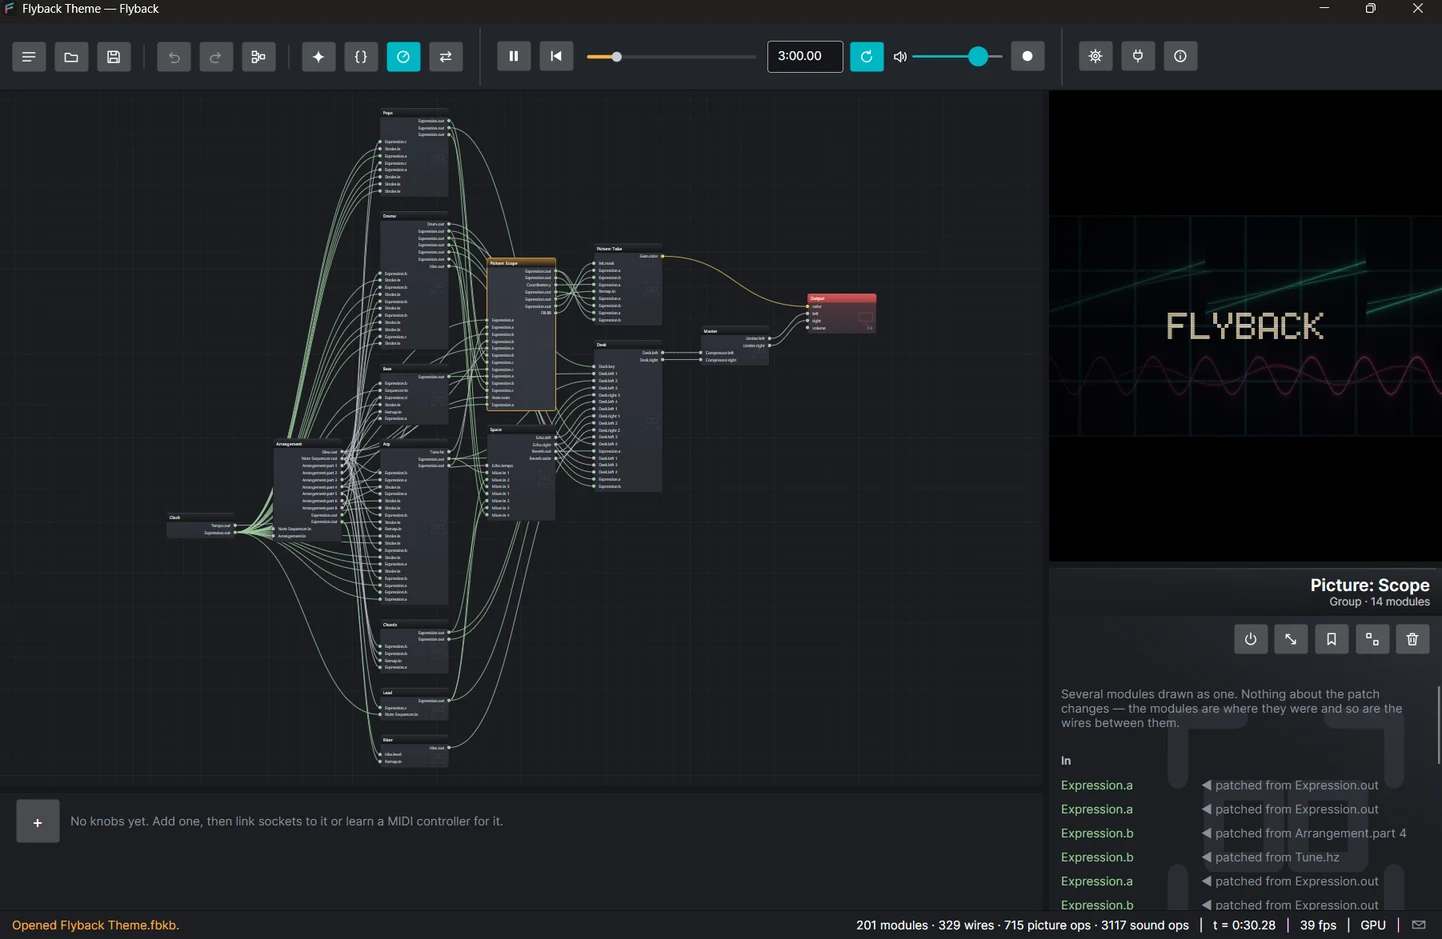
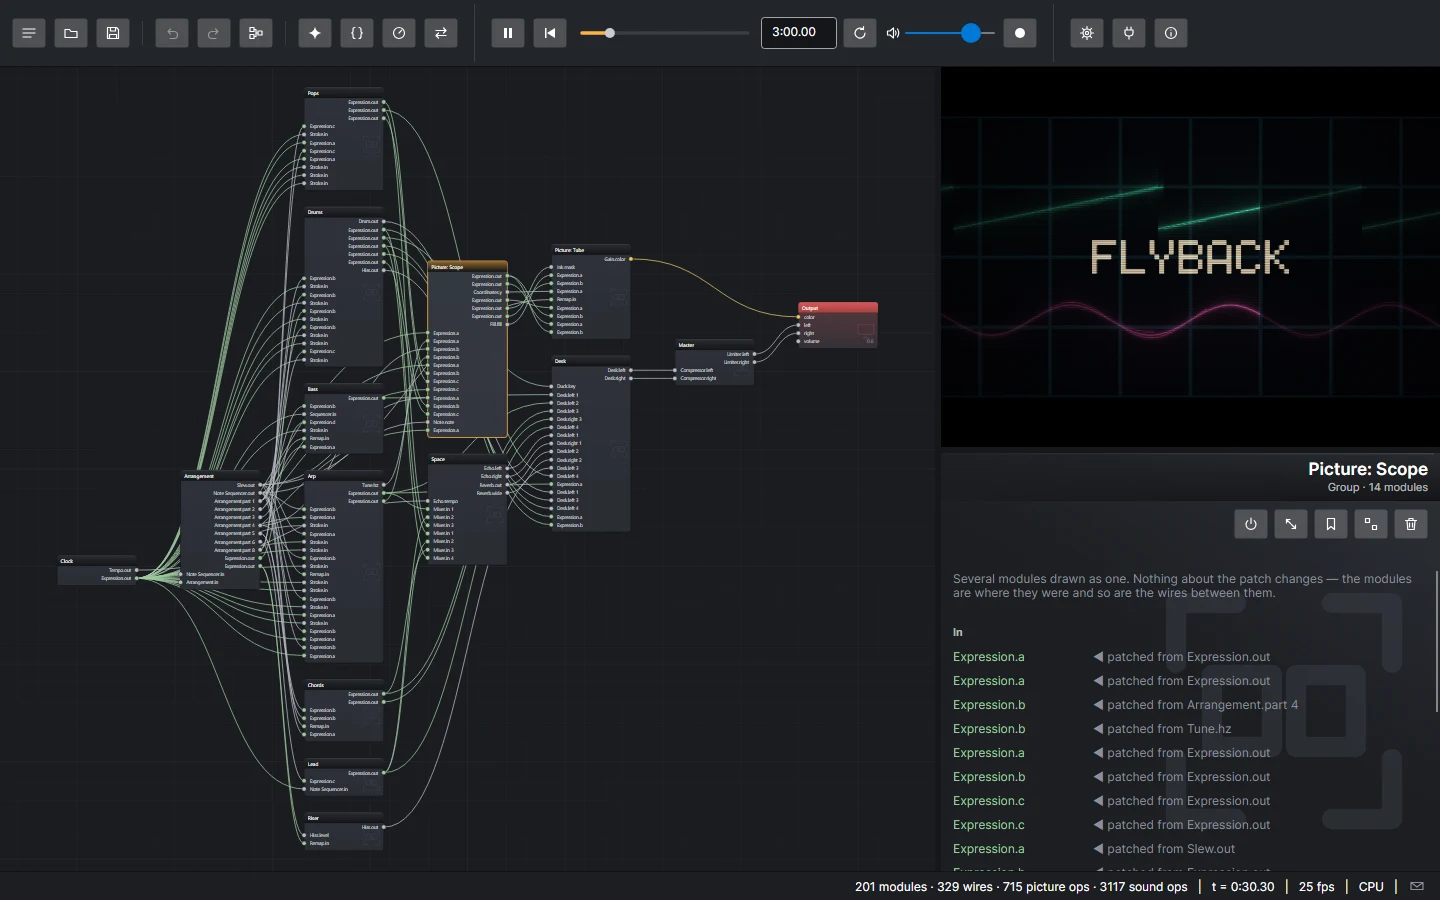
The site's Flyback Theme, Plasma and tutorial canvas shots show Time with length and progress
All three come from flyback-cli shot now rather than the driven window, so they
have no title bar and the two full windows are 1440x900; the tutorial canvas is
its text packed into a bundle, shot and cropped to the modules.

diff --git a/site/tutorials.html b/site/tutorials.html
@@ -128,7 +128,7 @@
     <figure>
       <div class="window">
         <a class="zoom" href="assets/shots/plasma.webp">
-          <img loading="lazy" src="assets/shots/plasma.webp" width="1442" height="939"
+          <img loading="lazy" src="assets/shots/plasma.webp" width="1440" height="900"
                alt="The Flyback window with the Plasma preset: the toolbar at the top, fourteen modules on the canvas, blue, cream and amber blobs in the preview, the patch's description and hints in the inspector, and the status bar at the bottom.">
         </a>
       </div>
@@ -320,7 +320,7 @@
 
     <figure class="wide-shot">
       <a class="zoom" href="assets/shots/tutorial-canvas.webp">
-        <img class="shot" loading="lazy" src="assets/shots/tutorial-canvas.webp" width="844" height="300"
+        <img class="shot" loading="lazy" src="assets/shots/tutorial-canvas.webp" width="913" height="349"
              alt="The finished patch on the canvas: a Sine and a Sine named slow into an Expression multiplying them, slow into HSV's hue, Rings with Time on its offset through an Auto remap into HSV's value, and HSV and the Expression into the Output.">
       </a>
       <figcaption>The finished patch. As the tone swells, the rings move through the color wheel with it, because

diff --git a/site/index.html b/site/index.html
@@ -233,7 +233,7 @@
           Try the editor here
         </a>
         <a class="zoom" href="assets/shots/flyback-theme.webp">
-          <img src="assets/shots/flyback-theme.webp" width="1442" height="939"
+          <img src="assets/shots/flyback-theme.webp" width="1440" height="900"
                alt="The Flyback window with the Flyback Theme preset: two hundred and one modules in named boxes wired across the canvas, the Picture: Scope box selected with its patched sockets listed in the inspector, and in the preview the word FLYBACK in pixel letters on an oscilloscope, between a green sawtooth trace and a pink sine.">
         </a>
       </div>

diff --git a/.claude/skills/site-screenshots/SKILL.md b/.claude/skills/site-screenshots/SKILL.md
@@ -37,7 +37,9 @@ flyback-cli shot --preset "Flyback Theme" -o theme.png --at 30.3 --size 1440x900
 
 Run it from a folder holding the CLI, the editor and the plugins together (a publish, or the editor's build output with `flyback-cli`'s build copied in). A shot has no title bar, says CPU on the status bar, and shows no popup, dropdown or dialog; a picture that needs any of those comes from the real window, by the recipe below.
 
-The full-window shots in `site/assets/shots` (nebula.webp, whole-band.webp, euclid-kit.webp, plasma*.webp, tutorial-canvas.webp; 1600x863) are the maximized app with a saved preset opened from the command line (`Flyback.exe nebula.fbk`), patch framed, caught at a chosen `t`. `flyback-cli pack --preset <name> -o <name>.fbkb` writes the preset out; for the shots that show shut boxes (whole-band, euclid-kit), set every `Group.Collapsed` in the bundle's `patch.fbk`, since a bundle is a zip. tutorial-canvas.webp is the tutorial's section-6 text saved as `t5.fbks`. A stale one goes on the list above rather than being retaken in the UI change's commit.
+flyback-theme.webp and plasma.webp (1440x900) are that command as it stands, Plasma at `--at 55.7` with nothing selected. tutorial-canvas.webp is the tutorial's section-6 text saved as `t5.fbks`, packed with `flyback-cli pack t5.fbks -o t5.fbkb` so it opens on the canvas rather than the text, shot at `--at 8`, and cropped to the modules with about 20 px of canvas around them.
+
+The full-window shots in `site/assets/shots` (nebula.webp, whole-band.webp, euclid-kit.webp, the other plasma-*.webp; 1600x863) are the maximized app with a saved preset opened from the command line (`Flyback.exe nebula.fbk`), patch framed, caught at a chosen `t`. `flyback-cli pack --preset <name> -o <name>.fbkb` writes the preset out; for the shots that show shut boxes (whole-band, euclid-kit), set every `Group.Collapsed` in the bundle's `patch.fbk`, since a bundle is a zip. A stale one goes on the list above rather than being retaken in the UI change's commit.
 
 A preset with sound plays through the user's speakers while it is captured, for the few seconds the recipe takes. Capture it anyway; muting the system is a system setting and off limits.
 

diff --git a/.claude/skills/site-screenshots/stale.md b/.claude/skills/site-screenshots/stale.md
@@ -2,6 +2,4 @@
 
 Full-window shots in `site/assets/shots` that no longer match the app, waiting for a retake session. One line per shot: the file, where the site uses it, what no longer matches, the date it went stale. A shot comes off the list in the commit that retakes it.
 
-- `flyback-theme.webp`, the front page's lead: Time has `length` and `progress` under `t`, so its module is two rows taller. 2026-09-29.
-- `plasma.webp`, the tutorials: the same Time, two rows taller. 2026-09-29.
-- `tutorial-canvas.webp`, the tutorials: the same Time, two rows taller. 2026-09-29.
+Nothing is waiting.
